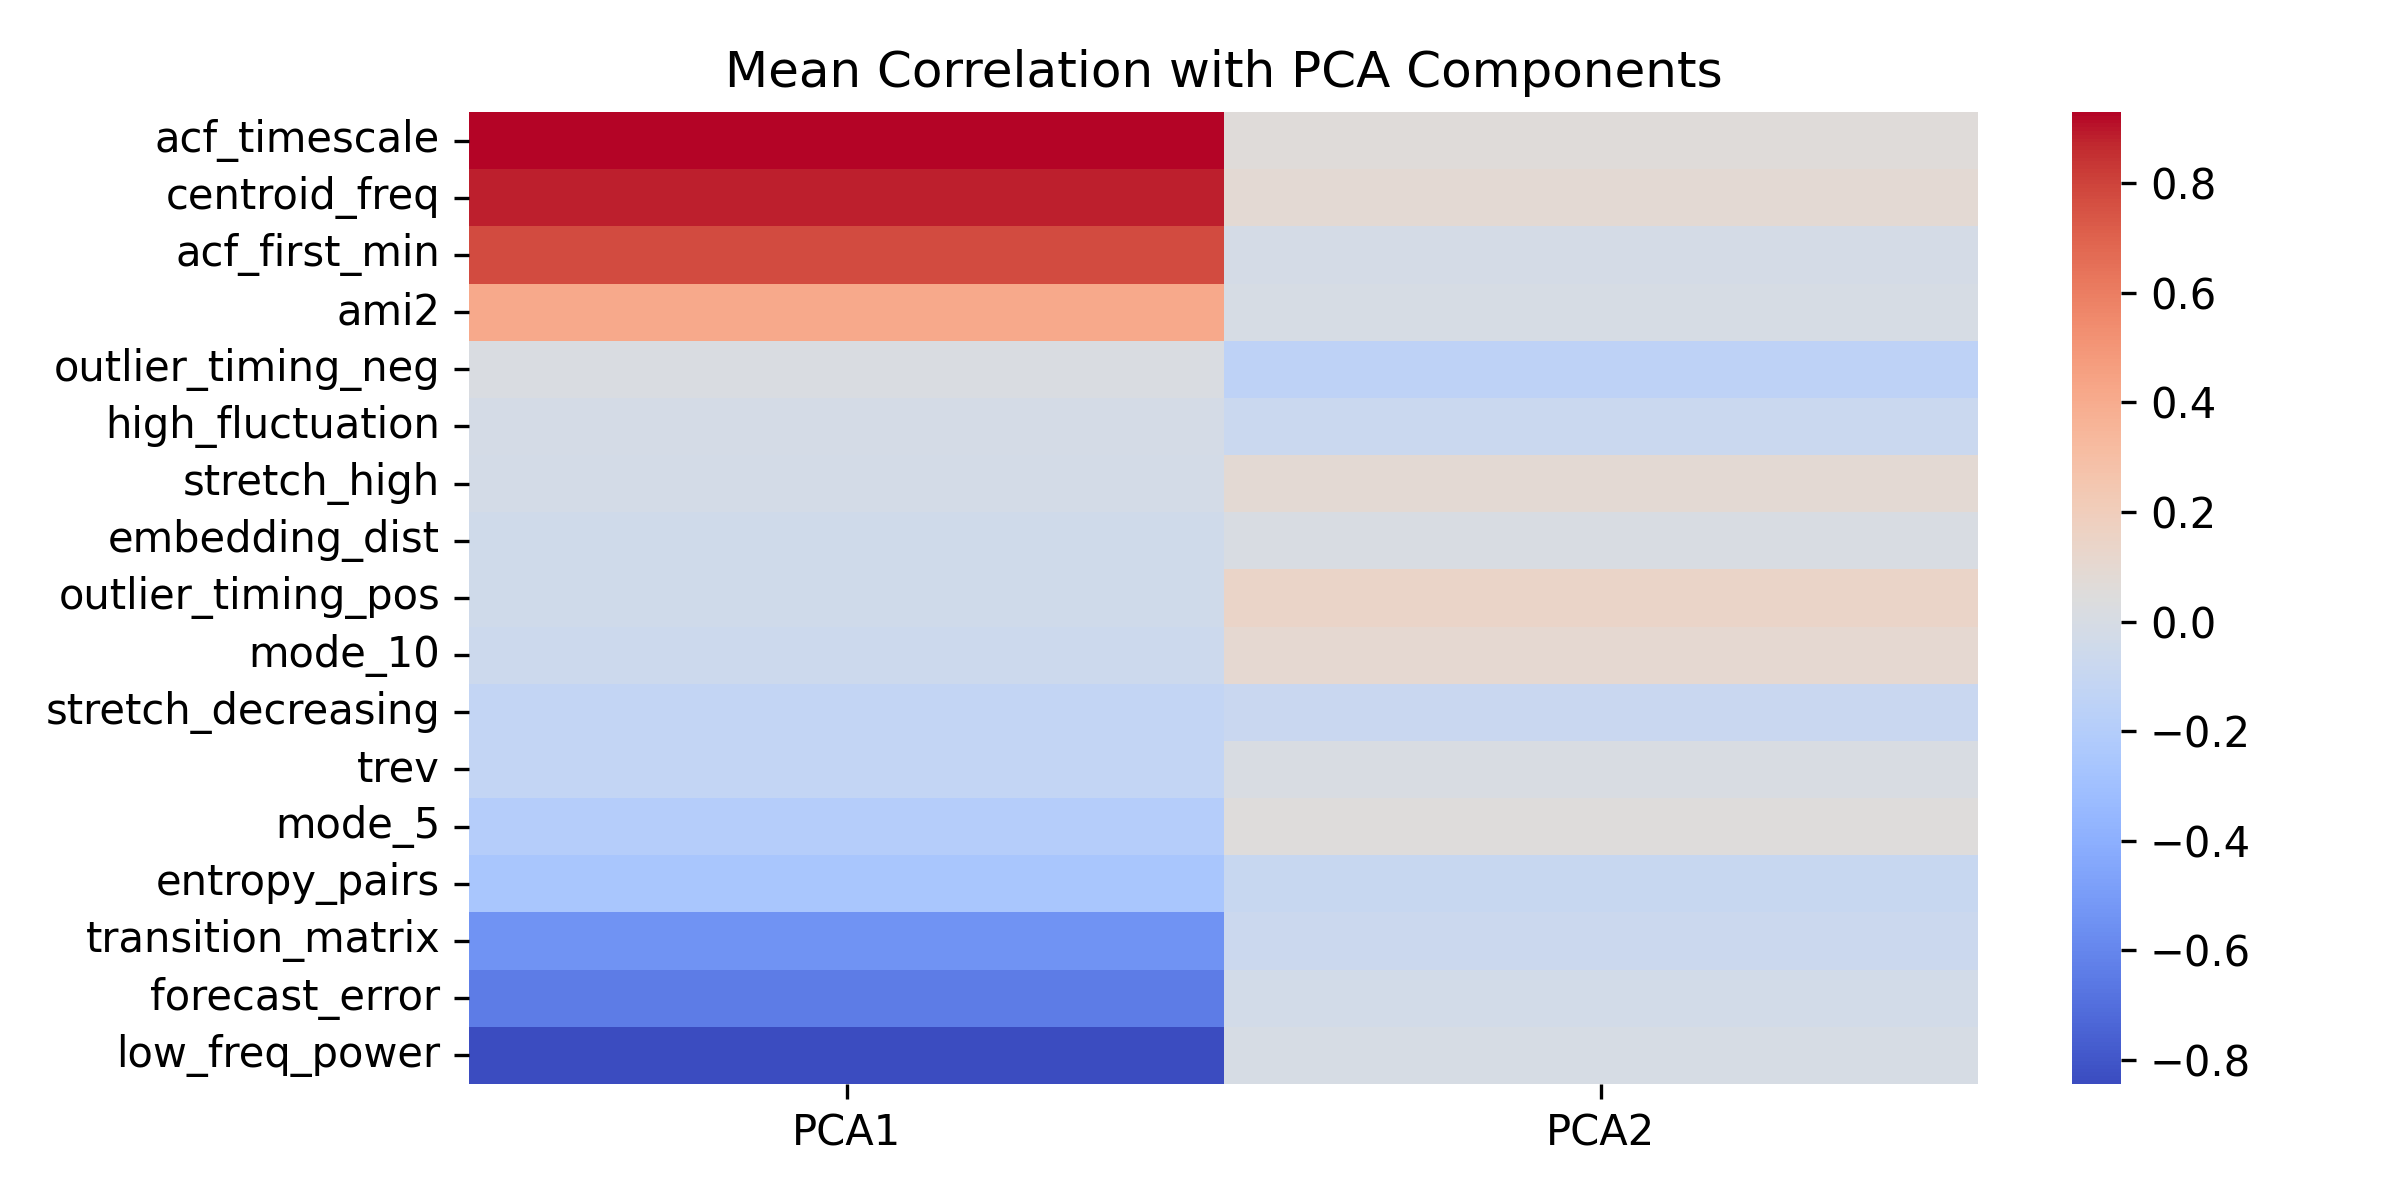
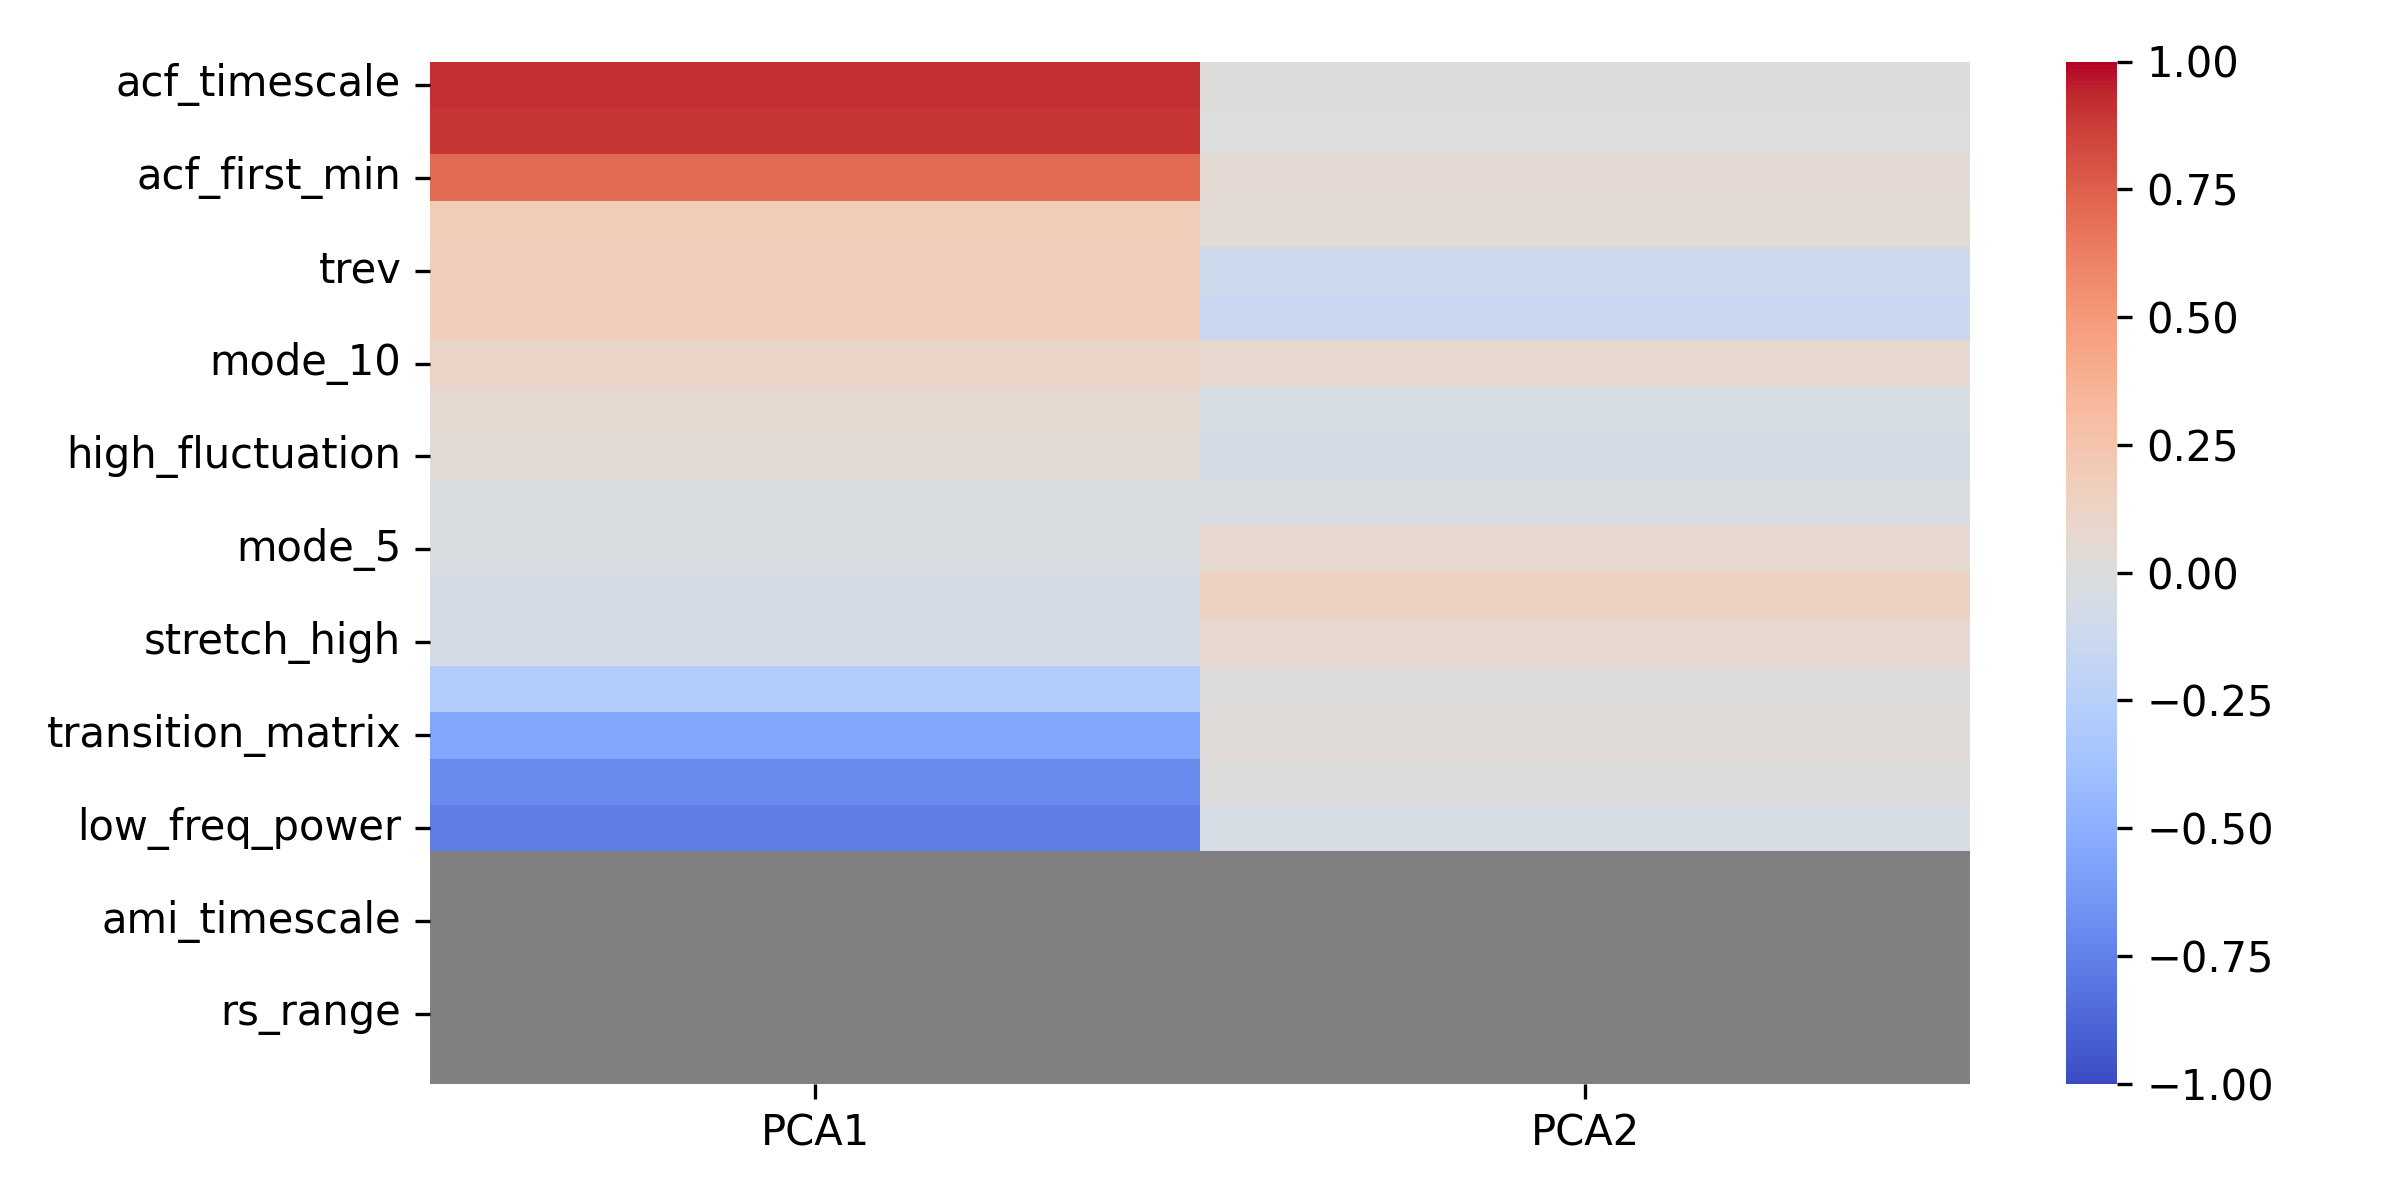
change order of correlation plots

diff --git a/models/classification.py b/models/classification.py
@@ -95,6 +95,37 @@ def evaluate_single_fold(X_train, X_test, y_train, y_test, classifier, probabili
     
     return roc_auc_score(y_test, y_pred)
 
+def time_single_fold(X_train, X_test, y_train, y_test, classifier, probability=True):
+    """
+    Evaluate a single fold of data using a classifier and compute AUC score.
+    Parameters:
+    - X_train: Training features
+    - X_test: Testing features
+    - y_train: Training labels
+    - y_test: Testing labels
+    - classifier: scikit-learn compatible classifier
+    - probability (bool): whether model supports 'predict_proba' method or to use 'decision_function'
+    Returns:
+    - auc_score: AUC score for the fold
+    """
+    train_time, test_time = 0, 0
+    start = time.time()
+    classifier.fit(X_train, y_train)
+    train_time = time.time() - start
+    # compute probabilities or decision function
+    if probability and hasattr(classifier, 'predict_proba'):
+        _= classifier.predict_proba(X_test)[:, 1]
+        test_time = time.time() - start - train_time
+
+    elif hasattr(classifier, 'decision_function'):
+        _ = classifier.decision_function(X_test)
+        test_time = time.time() - start - train_time
+
+    else:
+        raise ValueError("Model does not support probability prediction or decision function.")
+    
+    return train_time, test_time
+
 # ---------- Pipeline function ----------
 
 def run_experiment(X,y, splits, n_pca_components = 2, clf_fn = None):
@@ -180,7 +211,7 @@ def time_experiment(X,y, splits, n_pca_components = 2, clf_fn = None):
     - clf_fn (callable): classifier function, if None, use default classifier
 
     Returns:
-    - results (dict): dictionary containing times scores for each configuration
+    - results (dict): dictionary containing times scores for each configuration and split.
     """
 
     if clf_fn is None:
@@ -188,17 +219,14 @@ def time_experiment(X,y, splits, n_pca_components = 2, clf_fn = None):
     
     raw, pca, feat, feat_pca = [], [], [], []
 
-    start_time = time.time()
     for train_idx, test_idx  in splits:
         x_train, x_test = X[train_idx], X[test_idx]
         y_train, y_test = y[train_idx], y[test_idx]
 
         # raw
         clf = clf_fn()
-        _ = evaluate_single_fold(x_train, x_test, y_train, y_test, clf)
-        end_time = time.time()
-        raw.append(end_time - start_time)
-        start_time = end_time
+        train_time, test_time = time_single_fold(x_train, x_test, y_train, y_test, clf)
+        raw.append((train_time, test_time))
 
         # raw + pca
         clf = clf_fn()
@@ -206,21 +234,18 @@ def time_experiment(X,y, splits, n_pca_components = 2, clf_fn = None):
         test_pca = scaler.transform(x_test)
         test_pca = pca_tf.transform(test_pca)
 
-        _ = evaluate_single_fold(train_pca, test_pca, y_train, y_test, clf)
+        train_time, test_time = time_single_fold(train_pca, test_pca, y_train, y_test, clf)
 
-        end_time = time.time()
-        pca.append(end_time - start_time)
-        start_time = end_time
+        pca.append((train_time, test_time))
 
         # features
         clf = clf_fn()
         X_feat = extract_features(X, return_array=True)
         train_feat, test_feat = X_feat[train_idx], X_feat[test_idx]
-        _ = evaluate_single_fold(train_feat, test_feat, y_train, y_test, clf)
+        train_time, test_time = time_single_fold(train_feat, test_feat, y_train, y_test, clf)
 
-        end_time = time.time()
-        feat.append(end_time - start_time)
-        start_time = end_time
+        feat.append((train_time, test_time))
+
 
         # features + pca
         clf = clf_fn()
@@ -230,11 +255,9 @@ def time_experiment(X,y, splits, n_pca_components = 2, clf_fn = None):
         test_feat_pca = scaler.transform(test_feat)
         test_feat_pca = pca_tf.transform(test_feat_pca)
 
-        _ = evaluate_single_fold(train_feat_pca, test_feat_pca, y_train, y_test, clf)
+        train_time, test_time = time_single_fold(train_feat_pca, test_feat_pca, y_train, y_test, clf)
 
-        end_time = time.time()
-        feat_pca.append(end_time - start_time)
-        start_time = end_time
+        feat_pca.append([train_time, test_time])
 
     return {
         "raw": raw,

diff --git a/notebooks/correlations/cross_correlation_fhn_obs.py b/notebooks/correlations/cross_correlation_fhn_obs.py
@@ -31,7 +31,7 @@ cmap.set_bad("gray")
 b0 = 0.1
 
 b1 = 1.0
-db1 = 0.032
+db1 = 0.178
 b12 = b1 + db1
 dt = 0.1
 
@@ -51,8 +51,8 @@ samples = 80
 
 
 X, y, t = create_labeled_dataset([
-    (0, 'fhn_obs', {'length':850, 'dt': 0.1, 'x0': [0,0], 'args':[b0, b1, epsilon, I, noise]}),
-    (1, 'fhn_obs', {'length':850, 'dt': 0.1, 'x0': [0,0], 'args':[b0, b12, epsilon, I, noise]})],
+    (0, 'fhn', {'length':850, 'dt': 0.1, 'x0': [0,0], 'args':[b0, b1, epsilon, I, noise]}),
+    (1, 'fhn', {'length':850, 'dt': 0.1, 'x0': [0,0], 'args':[b0, b12, epsilon, I, noise]})],
     n_samples_per_class=samples, subsample_step = step, transient = trans, return_time=True
     )
 
@@ -85,21 +85,29 @@ for (frame, pca_data) in zip(x_feat, x_pca):
 mean_corr = sum(corr) / len(corr)
 
 # sort by PCA1 and drop NaN rows/columns
-mean_corr_sorted = mean_corr.sort_values(by='PCA1', ascending=False)#.dropna(axis=1, how='all').dropna(axis=0, how='all')
+mean_corr_sorted = mean_corr#.sort_values(by='PCA1', ascending=False)#.dropna(axis=1, how='all').dropna(axis=0, how='all')
 
 plt.figure(figsize=(10, 8))
 plt.title('Mean Correlation Heatmap Across Folds')
 sns.heatmap(mean_corr_sorted, fmt=".2f", cmap=cmap, cbar=True, vmin=-1, vmax=1, mask=mean_corr_sorted.isnull())
 plt.tight_layout()
-plt.savefig('notebooks/correlation_heatmap_mean_fhn_obs.png', dpi=300)
+#plt.savefig('notebooks/correlation_heatmap_mean_fhn.png', dpi=300)
 plt.show()
 
 # now, we get the heatmap only for PCA1 and PCA2
-mean_corr_pca = mean_corr.loc[['PCA1', 'PCA2'], [col for col in mean_corr_sorted.columns if col not in ['PCA1', 'PCA2']]].T
-mean_corr_pca = mean_corr_pca.sort_values(by='PCA1', ascending=False)
+sine_order = ['acf_timescale', 'centroid_freq', 'acf_first_min', 'ami2', 'trev',
+       'outlier_timing_pos', 'mode_10', 'stretch_decreasing',
+       'high_fluctuation', 'embedding_dist', 'mode_5', 'outlier_timing_neg',
+       'stretch_high', 'entropy_pairs', 'transition_matrix', 'forecast_error',
+       'low_freq_power', 'periodicity', 'ami_timescale', 'whiten_timescale',
+       'rs_range', 'dfa']
+
+mean_corr_pca = mean_corr.loc[['PCA1', 'PCA2'],[col for col in mean_corr_sorted.columns if col not in ['PCA1', 'PCA2']]]
+mean_corr_pca = mean_corr_pca[sine_order].T
+#mean_corr_pca = mean_corr_pca[sine_order]
+
 plt.figure(figsize=(8, 4))
-plt.title('Mean Correlation with PCA Components')
 sns.heatmap(mean_corr_pca, fmt=".2f", cmap=cmap, cbar=True, vmin=-1, vmax=1, mask=mean_corr_pca.isnull())
 plt.tight_layout()
-plt.savefig('notebooks/correlation_heatmap_mean_pca_fhn_obs.png', dpi=300)
+plt.savefig('notebooks/correlations/correlation_heatmap_mean_pca_fhn.png', dpi=300)
 plt.show()

diff --git a/notebooks/correlations/cross_correlation_sine.py b/notebooks/correlations/cross_correlation_sine.py
@@ -72,22 +72,30 @@ mean_corr = sum(corr) / len(corr)
 
 
 
-# sort by PCA1 and drop NaN rows/columns
-mean_corr_sorted = mean_corr.sort_values(by='PCA1', ascending=False)#.dropna(axis=1, how='all').dropna(axis=0, how='all')
+# sort by PCA1 and drop NaN rows/columns 
+order = ['acf_timescale', 'centroid_freq', 'acf_first_min', 'ami2',
+       'embedding_dist', 'stretch_decreasing', 'outlier_timing_pos',
+       'high_fluctuation', 'entropy_pairs', 'trev', 'outlier_timing_neg',
+       'mode_5', 'mode_10', 'stretch_high', 'transition_matrix',
+       'forecast_error', 'low_freq_power', 'periodicity', 'ami_timescale',
+       'whiten_timescale', 'rs_range', 'dfa']
 
 plt.figure(figsize=(10, 8))
 plt.title('Mean Correlation Heatmap Across Folds')
-sns.heatmap(mean_corr_sorted, fmt=".2f", cmap=cmap, cbar=True, mask=mean_corr_sorted.isnull(), vmin=-1, vmax=1)
+sns.heatmap(mean_corr, fmt=".2f", cmap=cmap, cbar=True, mask=mean_corr.isnull(), vmin=-1, vmax=1)
 plt.tight_layout()
-plt.savefig('notebooks/correlation_heatmap_mean_sine.png', dpi=300)
+#plt.savefig('notebooks/correlation_heatmap_mean_sine.png', dpi=300)
 plt.show()
 
 # now, we get the heatmap only for PCA1 and PCA2
-mean_corr_pca = mean_corr.loc[['PCA1', 'PCA2'], [col for col in mean_corr_sorted.columns if col not in ['PCA1', 'PCA2']]].T
+
+mean_corr_pca = mean_corr.loc[['PCA1', 'PCA2'], [col for col in mean_corr.columns if col not in ['PCA1', 'PCA2']]].T
+
 mean_corr_pca = mean_corr_pca.sort_values(by='PCA1', ascending=False)
+print(mean_corr_pca.index)
 plt.figure(figsize=(8, 4))
-plt.title('Mean Correlation with PCA Components')
+#plt.title('Mean Correlation with PCA Components')
 sns.heatmap(mean_corr_pca, fmt=".2f", cmap=cmap, cbar=True, vmin=-1, vmax=1, mask=mean_corr_pca.isnull())
 plt.tight_layout()
-plt.savefig('notebooks/correlation_heatmap_mean_pca_sine.png', dpi=300)
+plt.savefig('notebooks/correlations/correlation_heatmap_mean_pca_sine.png', dpi=300)
 plt.show()

diff --git a/notebooks/time_fhn.py b/notebooks/time_fhn.py
@@ -42,8 +42,19 @@ X, y, t = create_labeled_dataset([
 splits = get_kfold_splits(X, y, n_splits=5, stratified=False)
 results = time_experiment(X, y, splits)
 
-print("Timing Results (seconds):")
-print(f"Raw: {np.mean(results['raw']):.4f} ± {np.std(results['raw']):.4f}")
-print(f"Raw + PCA: {np.mean(results['pca']):.4f} ± {np.std(results['pca']):.4f}")
-print(f"Features: {np.mean(results['features']):.4f} ± {np.std(results['features']):.4f}")
-print(f"Features + PCA: {np.mean(results['features_pca']):.4f} ± {np.std(results['features_pca']):.4f}")
+print("Timing Results (milliseconds):")
+
+train = lambda arr: np.mean(arr) * 1000
+std = lambda arr: np.std(arr) * 1000
+
+print("Raw train: {:.2f} ± {:.2f} ms".format(train([x[0] for x in results['raw']]), std([x[0] for x in results['raw']])))
+print("Raw test:  {:.2f} ± {:.2f} ms".format(train([x[1] for x in results['raw']]), std([x[1] for x in results['raw']])))
+
+print("Raw + PCA train: {:.2f} ± {:.2f} ms".format(train([x[0] for x in results['pca']]), std([x[0] for x in results['pca']])))
+print("Raw + PCA test:  {:.2f} ± {:.2f} ms".format(train([x[1] for x in results['pca']]), std([x[1] for x in results['pca']])))
+
+print("Features train: {:.2f} ± {:.2f} ms".format(train([x[0] for x in results['features']]), std([x[0] for x in results['features']])))
+print("Features test:  {:.2f} ± {:.2f} ms".format(train([x[1] for x in results['features']]), std([x[1] for x in results['features']])))
+
+print("Features + PCA train: {:.2f} ± {:.2f} ms".format(train([x[0] for x in results['features_pca']]), std([x[0] for x in results['features_pca']])))
+print("Features + PCA test:  {:.2f} ± {:.2f} ms".format(train([x[1] for x in results['features_pca']]), std([x[1] for x in results['features_pca']])))

diff --git a/notebooks/time_sine.py b/notebooks/time_sine.py
@@ -30,8 +30,18 @@ X,y = create_labeled_dataset(
 splits = get_kfold_splits(X, y, n_splits=5, stratified=False)
 results = time_experiment(X, y, splits)
 
-print("Timing Results (seconds):")
-print(f"Raw: {np.mean(results['raw']):.4f} ± {np.std(results['raw']):.4f}")
-print(f"Raw + PCA: {np.mean(results['pca']):.4f} ± {np.std(results['pca']):.4f}")
-print(f"Features: {np.mean(results['features']):.4f} ± {np.std(results['features']):.4f}")
-print(f"Features + PCA: {np.mean(results['features_pca']):.4f} ± {np.std(results['features_pca']):.4f}")
+
+train = lambda arr: np.mean(arr) * 1000
+std = lambda arr: np.std(arr) * 1000
+
+print("Raw train: {:.2f} ± {:.2f} ms".format(train([x[0] for x in results['raw']]), std([x[0] for x in results['raw']])))
+print("Raw test:  {:.2f} ± {:.2f} ms".format(train([x[1] for x in results['raw']]), std([x[1] for x in results['raw']])))
+
+print("Raw + PCA train: {:.2f} ± {:.2f} ms".format(train([x[0] for x in results['pca']]), std([x[0] for x in results['pca']])))
+print("Raw + PCA test:  {:.2f} ± {:.2f} ms".format(train([x[1] for x in results['pca']]), std([x[1] for x in results['pca']])))
+
+print("Features train: {:.2f} ± {:.2f} ms".format(train([x[0] for x in results['features']]), std([x[0] for x in results['features']])))
+print("Features test:  {:.2f} ± {:.2f} ms".format(train([x[1] for x in results['features']]), std([x[1] for x in results['features']])))
+
+print("Features + PCA train: {:.2f} ± {:.2f} ms".format(train([x[0] for x in results['features_pca']]), std([x[0] for x in results['features_pca']])))
+print("Features + PCA test:  {:.2f} ± {:.2f} ms".format(train([x[1] for x in results['features_pca']]), std([x[1] for x in results['features_pca']])))
